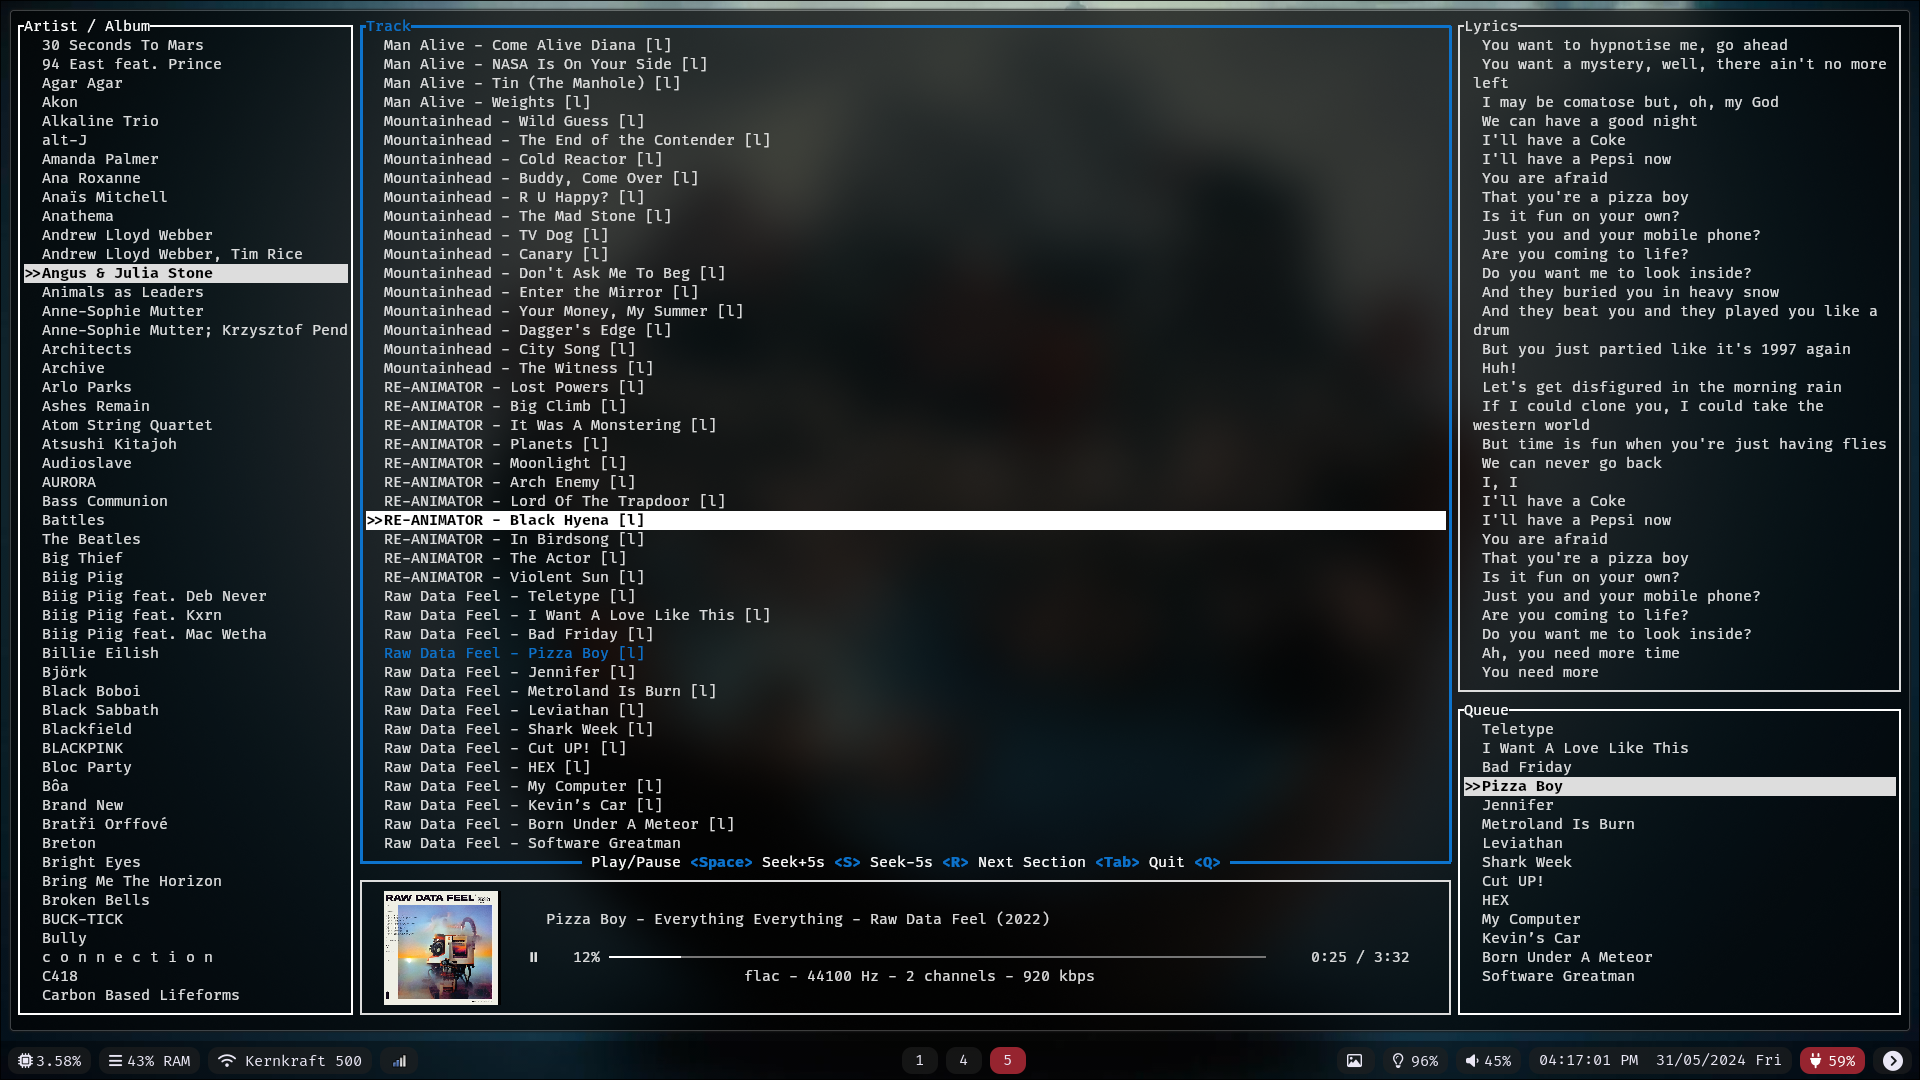
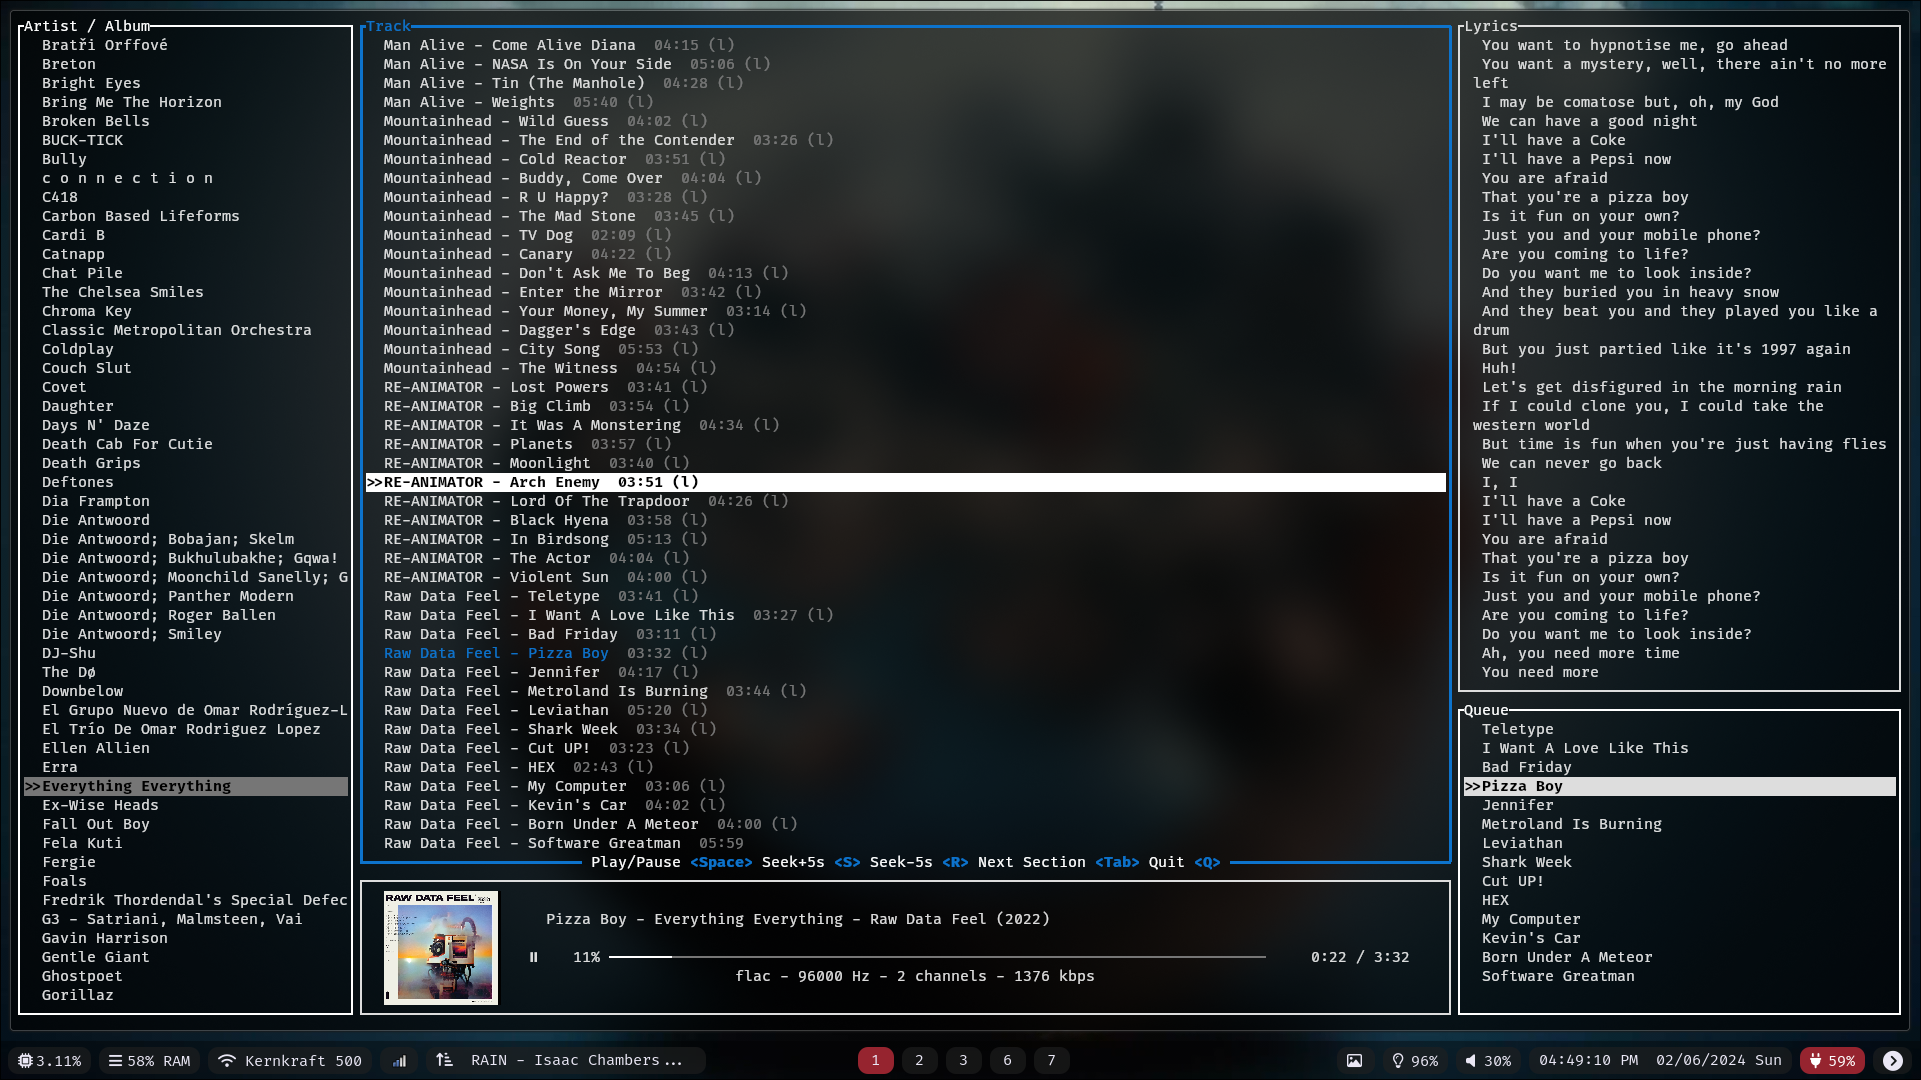
feat: dim inactive selection

diff --git a/src/tui.rs b/src/tui.rs
@@ -400,6 +400,17 @@ impl App {
                 .border_style(style::Color::White),
         };
 
+        let artist_highlight_style = match self.active_section {
+            ActiveSection::Artists => Style::default()
+                .add_modifier(Modifier::BOLD)
+                .add_modifier(Modifier::REVERSED),
+            _ => Style::default()
+                .add_modifier(Modifier::BOLD)
+                .bg(Color::DarkGray)
+                .fg(Color::Black)
+                .add_modifier(Modifier::BOLD),
+        };
+
         // render all artists as a list here in left[0]
         let items = self
             .artists
@@ -411,9 +422,7 @@ impl App {
             .block(artist_block.title("Artist / Album"))
             .highlight_symbol(">>")
             .highlight_style(
-                Style::default()
-                    .add_modifier(Modifier::BOLD)
-                    .add_modifier(Modifier::REVERSED),
+                artist_highlight_style
             )
             .repeat_highlight_symbol(true);
 
@@ -427,7 +436,17 @@ impl App {
                 .borders(Borders::ALL)
                 .border_style(style::Color::White),
         };
-
+        
+        let track_highlight_style = match self.active_section {
+            ActiveSection::Tracks => Style::default()
+                .bg(Color::White)
+                .fg(Color::Black)
+                .add_modifier(Modifier::BOLD),
+            _ => Style::default()
+                .bg(Color::DarkGray)
+                .fg(Color::Black)
+                .add_modifier(Modifier::BOLD),
+        };
         let items = self
             .tracks
             .iter()
@@ -472,11 +491,7 @@ impl App {
             .block(track_block.title("Track"))
             .highlight_symbol(">>")
             .highlight_style(
-                Style::default()
-                    .bg(Color::White)
-                    .fg(Color::Black)
-                    .add_modifier(Modifier::BOLD)
-                    // .add_modifier(Modifier::REVERSED),
+                track_highlight_style
             )
             .repeat_highlight_symbol(true);
         frame.render_stateful_widget(list, center[0], &mut self.selected_track);